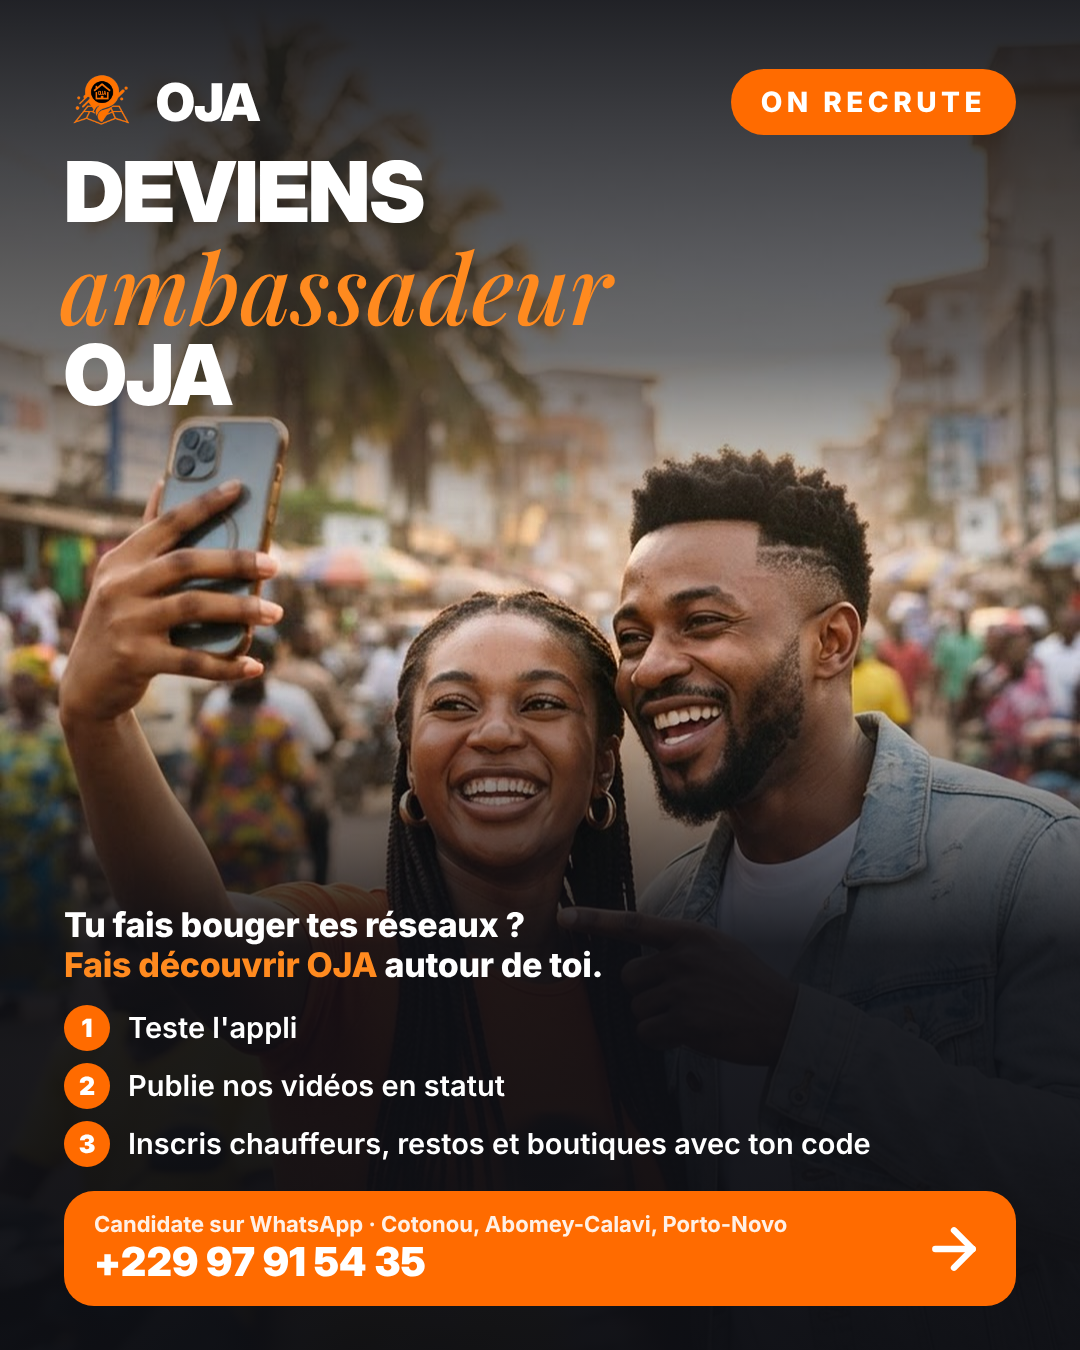
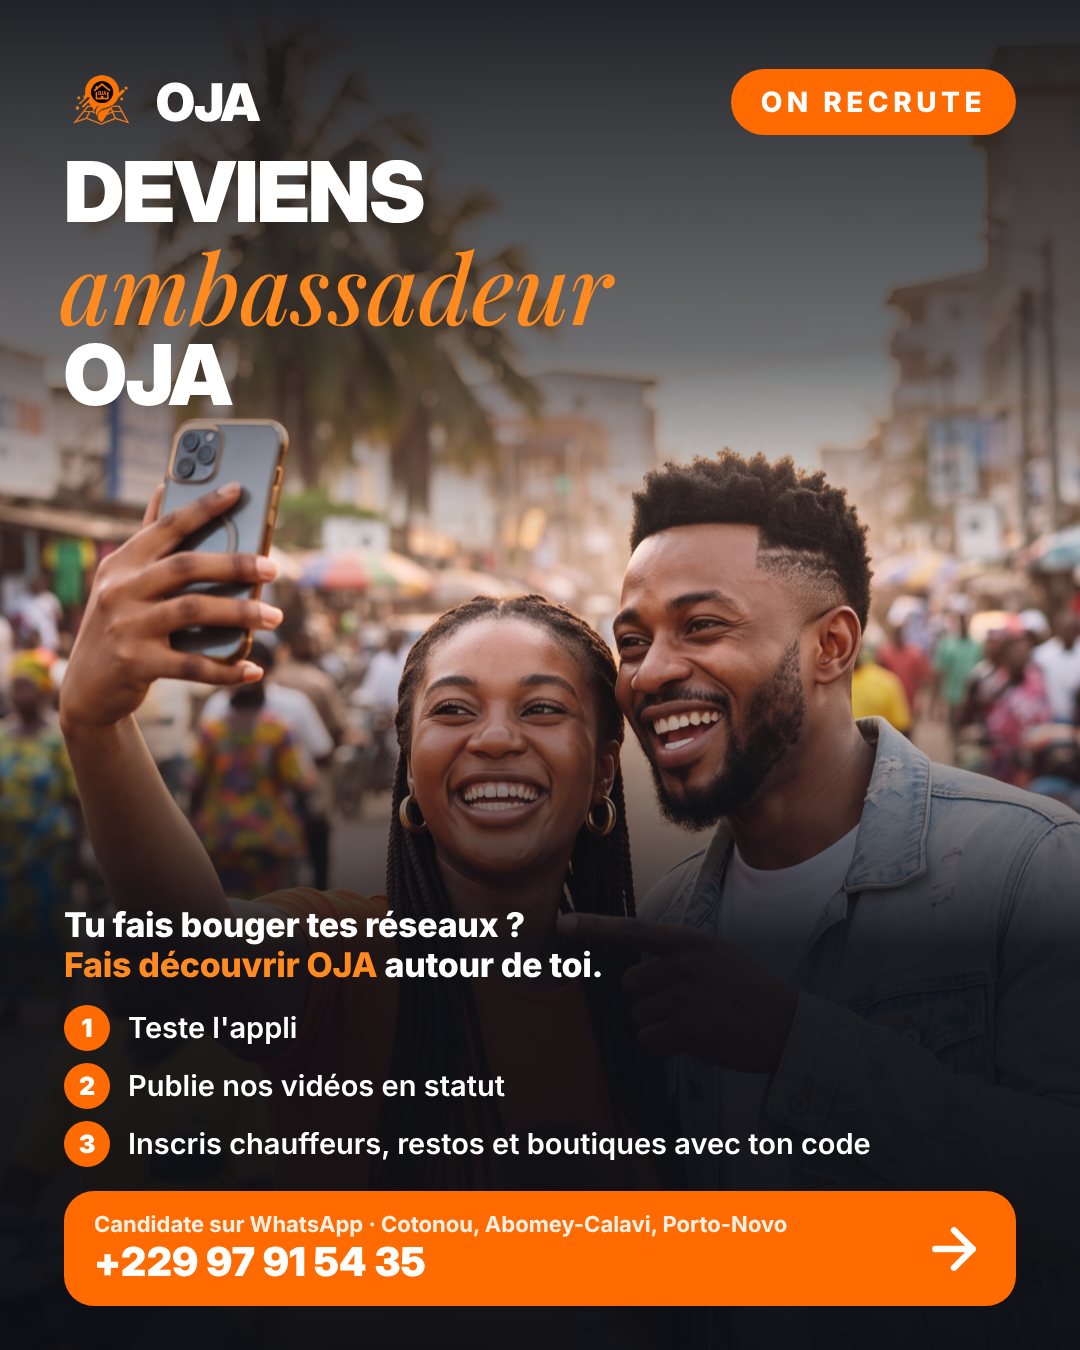
Ambassador poster in HD (2160x3840 and 2160x2700) from a 4K version of the photo (Nano Banana 2, 4K)
Claude-Session: https://claude.ai/code/session_013hXBLf1amJ3CRzgYm5RBGS

diff --git a/motion/src/affiche_build.js b/motion/src/affiche_build.js
@@ -1,17 +1,18 @@
 // Renders the ambassador recruitment poster: node src/affiche_build.js  (FFMPEG=<ffmpeg> to flatten the PNGs)
-// affiche_ambassadeurs.html#story -> affiches/OJA_Affiche_Ambassadeurs_1080x1920.png, #feed -> affiches/OJA_Affiche_Ambassadeurs_1080x1350.png
+// affiche_ambassadeurs.html#story -> affiches/OJA_Affiche_Ambassadeurs_1080x1920.png, #feed -> _1080x1350.png,
+// plus the HD versions rendered at twice the pixel density from the 4K photo: _2160x3840.png and _2160x2700.png
 const { chromium } = require('playwright');
 const fs = require('fs'), path = require('path'), { execFileSync } = require('child_process');
 const ROOT = path.resolve(__dirname, '..'), FFMPEG = process.env.FFMPEG || 'ffmpeg';
 (async () => {
   fs.mkdirSync(path.join(ROOT, 'affiches'), { recursive: true });
   const b = await chromium.launch({ args: ['--allow-file-access-from-files'] });
-  for (const [fmt, h] of [['story', 1920], ['feed', 1350]]) {
-    const p = await b.newPage({ viewport: { width: 1080, height: h } });
+  for (const [fmt, h, k] of [['story', 1920, 1], ['feed', 1350, 1], ['story', 1920, 2], ['feed', 1350, 2]]) {
+    const p = await b.newPage({ viewport: { width: 1080, height: h }, deviceScaleFactor: k });
     await p.goto(require('url').pathToFileURL(path.join(ROOT, 'affiche_ambassadeurs.html')).href + '#' + fmt);
     await p.evaluate(async () => { await document.fonts.ready; await Promise.all([...document.images].map(i => i.decode().catch(() => 0))); });
     await p.waitForTimeout(300);
-    const out = path.join(ROOT, 'affiches', `OJA_Affiche_Ambassadeurs_1080x${h}.png`), tmp = out + '.tmp.png';
+    const out = path.join(ROOT, 'affiches', `OJA_Affiche_Ambassadeurs_${1080 * k}x${h * k}.png`), tmp = out + '.tmp.png';
     await p.screenshot({ path: tmp });
     execFileSync(FFMPEG, ['-v', 'error', '-y', '-i', tmp, '-pix_fmt', 'rgb24', out]); fs.unlinkSync(tmp);
     console.log(path.relative(ROOT, out)); await p.close();

diff --git a/motion/affiche_ambassadeurs.html b/motion/affiche_ambassadeurs.html
@@ -7,7 +7,7 @@
 :root{--or:#FF6B00;--or2:#FF8A1F;--ink:#0E0F14}
 body{width:1080px;height:var(--H);overflow:hidden;position:relative;background:var(--ink);font-family:Inter,sans-serif;color:#fff}
 body.story{--H:1920px}body.feed{--H:1350px}
-.photo{position:absolute;inset:0;background:url(assets/amb/amb_hero.jpg) center/cover no-repeat}
+.photo{position:absolute;inset:0;background:url(assets/amb/amb_hero_hd.jpg) center/cover no-repeat}
 .story .photo{background-size:125% auto;background-position:50% 0}
 .feed .photo{background-position:50% 8%}
 .shade{position:absolute;inset:0;background:linear-gradient(180deg,rgba(14,15,20,.9) 0%,rgba(14,15,20,.6) 20%,rgba(14,15,20,0) 36%),linear-gradient(0deg,rgba(14,15,20,.97) 0%,rgba(14,15,20,.92) 30%,rgba(14,15,20,0) 54%)}
